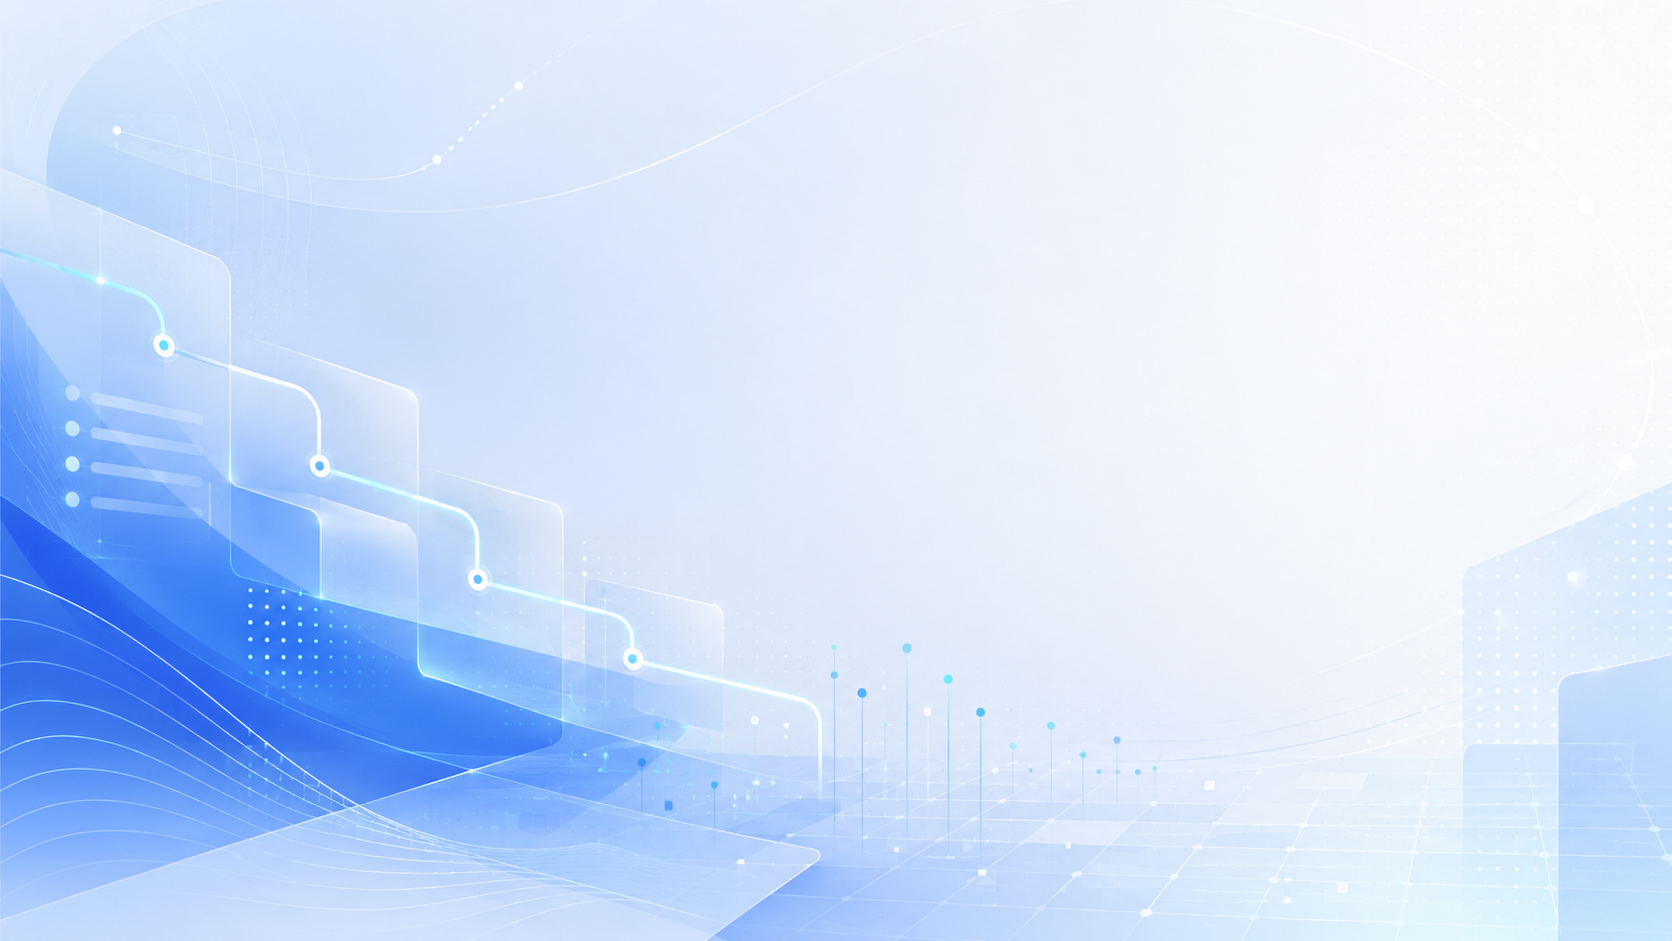
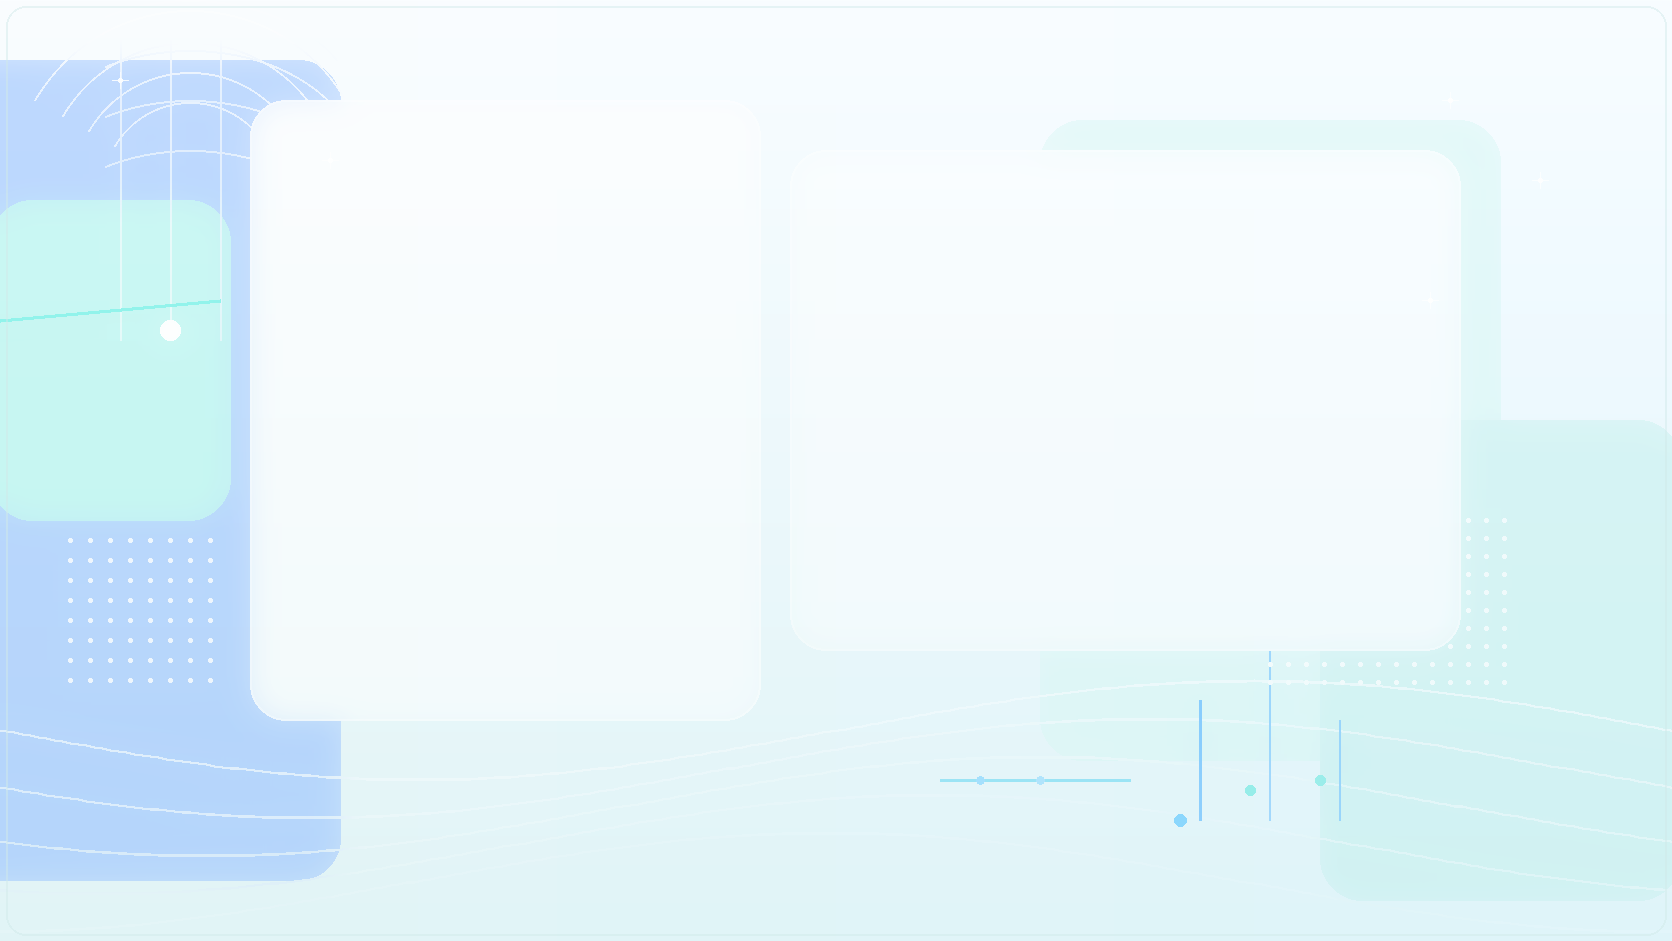
하아

diff --git a/src/app/components/auth/authShared.tsx b/src/app/components/auth/authShared.tsx
@@ -5,7 +5,6 @@ import {
   ListChecks,
   Loader2,
   Network,
-  Play,
   RotateCcw,
   Sparkles,
   Users,
@@ -19,7 +18,7 @@ import { cn } from "@/app/components/ui/utils";
 import { SiteFooter } from "@/app/components/common/SiteFooter_our";
 
 export const LOGIN_BLUE = "#2F6FF2";
-export const EMAIL_EXAMPLE = "user@bidworks.ai";
+export const EMAIL_EXAMPLE = "user@pmate.ai";
 
 /** 로그인·회원가입 입력칸 공통 스타일 */
 export const INPUT_CLASS =
@@ -191,8 +190,15 @@ function startDemo() {
 function LiveExtractDemo({ expanded = false }: { expanded?: boolean }) {
   const lastPhase = DEMO_PHASE_MS.length - 1;
   const [, forceRender] = useReducer((n: number) => n + 1, 0);
-  // 이 마운트에서 버튼으로 새로 시작한 경우만 카운트업 애니메이션 재생
+  // 이 마운트에서 새로 시작한 경우만 카운트업 애니메이션 재생
   const [justStarted, setJustStarted] = useState(false);
+
+  useEffect(() => {
+    if (!demoStarted) {
+      setJustStarted(true);
+      startDemo();
+    }
+  }, []);
 
   useEffect(() => {
     demoListeners.add(forceRender);
@@ -286,15 +292,11 @@ function LiveExtractDemo({ expanded = false }: { expanded?: boolean }) {
           </div>
         ) : (
           <div className="flex flex-col items-center justify-center gap-2 text-center">
-            <button
-              type="button"
-              onClick={start}
-              className="inline-flex items-center gap-2 rounded-full bg-[#2F6FF2] px-5 py-2.5 text-sm font-semibold text-white shadow-[0_12px_28px_rgba(47,111,242,0.30)] transition hover:opacity-95"
-            >
-              <Play className="size-4" /> 분석 시작
-            </button>
+            <div className="inline-flex items-center gap-2 rounded-full bg-[#eaf1ff] px-4 py-2 text-sm font-semibold text-[#2F6FF2]">
+              <Loader2 className="size-4 animate-spin" /> 자동 분석 준비 중
+            </div>
             <span className="text-xs text-slate-400">
-              버튼을 누르면 AI가 문서를 분석합니다
+              접속 시 문서 분석 데모가 자동으로 1회 재생됩니다
             </span>
           </div>
         )}
@@ -353,7 +355,7 @@ function LandingPanel({ expanded = false }: { expanded?: boolean }) {
               : "text-[1.8rem] sm:text-[1.95rem]",
           )}
         >
-          <span className="text-[#2F6FF2]">BidWorks</span> AI
+          <span className="text-[#2F6FF2]">Pmate</span> AI
         </div>
 
         <div
@@ -393,7 +395,7 @@ function LandingPanel({ expanded = false }: { expanded?: boolean }) {
                 : "mt-4 text-[0.98rem] leading-[1.5] sm:text-base",
             )}
           >
-            BidWorks AI는 사업 문서를 분석해 요구사항을 체계화하여
+            Pmate AI는 사업 문서를 분석해 요구사항을 체계화하여
             <br />
             PM과 팀의 업무를 효율화합니다.
             <br />
@@ -454,7 +456,7 @@ function LandingPanel({ expanded = false }: { expanded?: boolean }) {
 
 interface AuthShellProps {
   title: string;
-  subtitle: string;
+  subtitle?: string;
   children: React.ReactNode;
   footer?: React.ReactNode;
   mainClassName?: string;
@@ -562,13 +564,13 @@ export function AuthShell({
                   <Sparkles className="size-5" />
                 </div>
                 <span className="text-[1.8rem] font-semibold text-slate-900">
-                  BidWorks AI
+                  Pmate AI
                 </span>
               </div>
 
               <div className="mb-4 text-center">
                 <h1 className="text-[1.85rem] font-bold text-slate-950">{title}</h1>
-                <p className="mt-1.5 text-base text-slate-500">{subtitle}</p>
+                {subtitle ? <p className="mt-1.5 text-base text-slate-500">{subtitle}</p> : null}
               </div>
 
                 {children}

diff --git a/src/app/components/layout/ProjectScopeBar.tsx b/src/app/components/layout/ProjectScopeBar.tsx
@@ -74,7 +74,7 @@ export function ProjectScopeBar({
           ))}
         </SelectContent>
       </Select>
-      {selected && statusLabel && (
+      {selected && statusLabel && !compact && (
         <>
           <Badge
             variant="outline"
@@ -87,7 +87,7 @@ export function ProjectScopeBar({
           >
             {statusLabel}
           </Badge>
-          {!compact && <span className="text-muted-foreground text-xs">{selected.client}</span>}
+          <span className="text-muted-foreground text-xs">{selected.client}</span>
         </>
       )}
       {rightSlotId ? (

diff --git a/src/app/components/auth/LoginScreen.tsx b/src/app/components/auth/LoginScreen.tsx
@@ -82,13 +82,13 @@ export function LoginScreen({
   return (
     <AuthShell
       title="로그인"
-      subtitle="AI 기반 RFP 프로젝트 관리"
+      subtitle=""
       mainClassName="py-8 sm:py-10"
       matchPanelHeight
       fitViewport
       footer={
         <div className="space-y-4">
-          <p className="text-center text-sm text-slate-500">
+          <p className="text-center text-base font-medium text-slate-600">
             아직 계정이 없으신가요?{" "}
             <button
               type="button"
